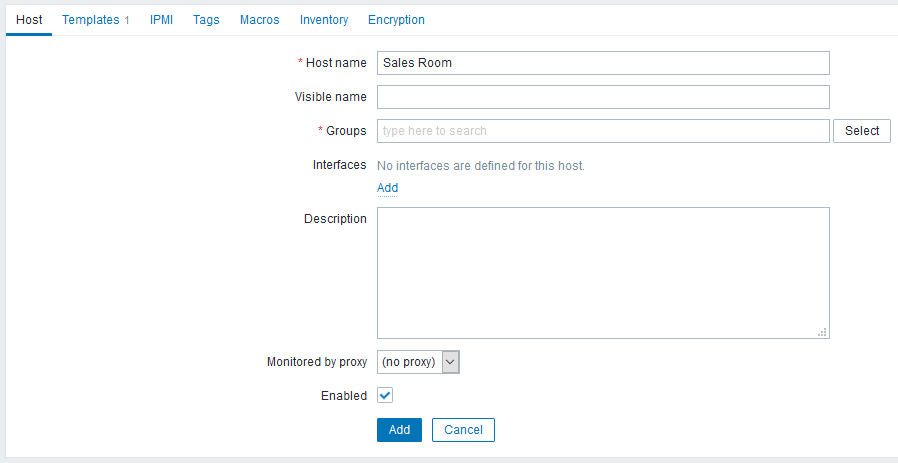
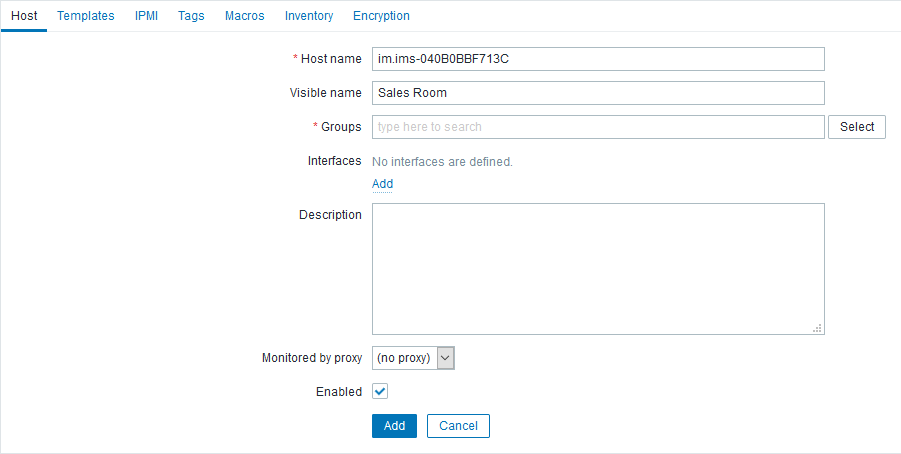
[ADD] Added host information to README

diff --git a/README.md b/README.md
@@ -15,12 +15,12 @@ This repository contains instructions and templates that allows to test out the 
 
 The demonstration setup consists of four [IMS-Smart sensors](https://www.intellitrend.de/cms/en/intellimon/ims-smart-sensors/5/ims-smart-zabbix-sensor) running a firmware with MQTT support. They publish their data every 10 minutes as a JSON-string to an MQTT Broker on `iot.intellitrend.de` using the following MQTT topics:
 
-| Name          | Topic                         |
-| ------------- | ----------------------------- |
-| Sales Room    | office/bielefeld/salesroom    |
-| Server Room   | office/bielefeld/serverroom   |
-| Training Room | office/bielefeld/trainingroom |
-| Support Room  | office/bielefeld/supportroom  |
+| Name          | Hostname            | Topic                         |
+| ------------- | ------------------- | ----------------------------- |
+| Sales Room    | im.ims-040B0BBF713C | office/bielefeld/salesroom    |
+| Server Room   | im.ims-603E9BC40A24 | office/bielefeld/serverroom   |
+| Training Room | im.ims-94B71112CFA4 | office/bielefeld/trainingroom |
+| Support Room  | im.ims-80D478BF713C | office/bielefeld/supportroom  |
 
 A message may look like this:
 
@@ -54,7 +54,7 @@ Examples:
 
 First, import the included template file [Zabbix_Template-IMS-Smart_Sensor_V1.6_5.2_MQTT.yaml](templates/Zabbix_Template-IMS-Smart_Sensor_V1.6_5.2_MQTT.yaml) 
 
-Then create a new host. Starting with the first one, name it "Sales Room":
+Then create a new host. Starting with the first one, name it "Sales Room" and set `im.ims-040B0BBF713C` as Host name:
 
 ![image-20201012154950792](images/image-20201012154950792.png)
 
@@ -75,9 +75,9 @@ Then switch to Macros and fill out the fields with the credentials:
 
 Finally, click "Add" to add the new host.
 
-Now, you need to configure a Zabbix Agent 2 instance to allow active checks for that host, which is required for `mqtt.get`. For that, the `Hostname` property needs to be changed in the config by adding `Sales Room`. If there's already a host name defined, separate the new one with a comma (multiple Hostnames are a new feature of the Zabbix Agent 2 in Zabbix 5.2).
+Now, you need to configure a Zabbix Agent 2 instance to allow active checks for that host, which is required for `mqtt.get`. For that, the `Hostname` property needs to be changed in the Zabbix Agent 2 config by adding `im.ims-040B0BBF713C`. If there's already a host name defined, separate the new one with a comma (multiple Hostnames is a new feature of the Zabbix Agent 2 in Zabbix 5.2).
 
-For the remaining sensors, it's easiest to clone the first host and update the host name and topic.
+For the remaining sensors, it's easiest to clone the first host and update the visible name, host name and topic.
 
-If you're in a hurry, you can also just import all demonstration hosts by using the [Zabbix_Hosts-Sensors.yaml](templates/Zabbix_Hosts-Sensors.yaml).
+If you're in a hurry, you can also just import all demonstration hosts by using the [Zabbix_Hosts-Sensors.yaml](templates/Zabbix_Hosts-Sensors.yaml) and set your `Hostname` property to `im.ims-040B0BBF713C,im.ims-603E9BC40A24,im.ims-94B71112CFA4,im.ims-80D478BF713C`.
 
